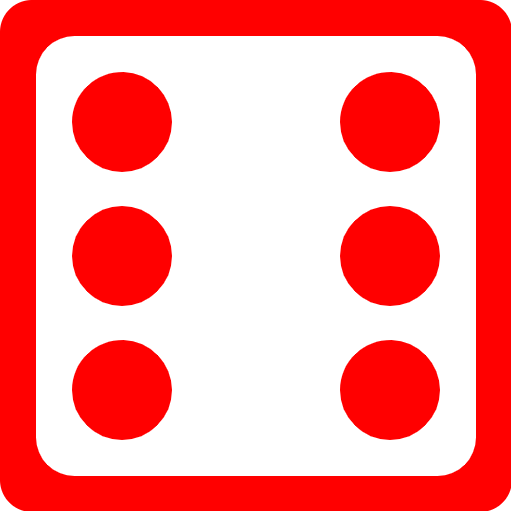
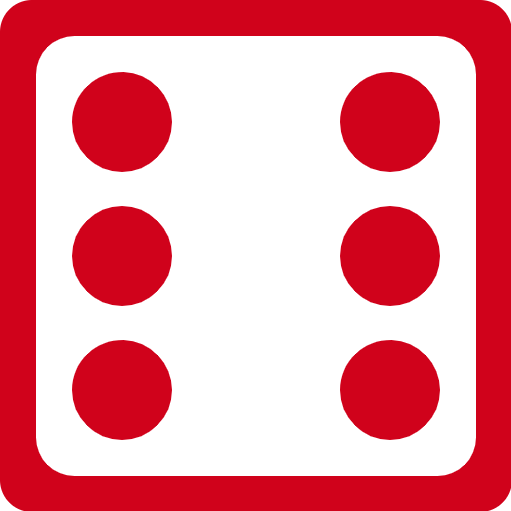
directory

diff --git a/kostky.py b/kostky.py
@@ -1,53 +1,77 @@
-import time
-
 import pygame
+import random
 
 pygame.init()
+
 display_info = pygame.display.Info()
-print(display_info)
 screen_width = display_info.current_w
 screen_height = display_info.current_h
 window = pygame.display.set_mode((screen_width, screen_height), pygame.FULLSCREEN)
-red = pygame.color.Color('#FF0000')
-orange = pygame.color.Color('#FF9000')
-white = pygame.color.Color('#FFFFFF')
 black = pygame.color.Color('#000000')
-kostkaIMG = pygame.image.load('foto/dice6.png')
-kostka6 = pygame.transform.scale(kostkaIMG, (0.08 * screen_width, 0.08 * screen_width))
-kostkaIMG = pygame.image.load('foto/dice6X.png')
-kostka6X = pygame.transform.scale(kostkaIMG, (0.08 * screen_width, 0.08 * screen_width))
 
 
-class dice:
-    def __init__(self, x, y, size, number, color):
-        self.number = number
+class Board:
+    POSITIONS = [
+        (screen_width * 0.5, screen_height * 0.5 - screen_width * 0.1),
+        (screen_width * 0.4, screen_height * 0.5 - screen_width * 0.1),
+        (screen_width * 0.5, screen_height * 0.5),
+        (screen_width * 0.4, screen_height * 0.5),
+        (screen_width * 0.5, screen_height * 0.5 + screen_width * 0.1),
+        (screen_width * 0.4, screen_height * 0.5 + screen_width * 0.1)
+
+    ]
+
+    def create(self):
+        self.dices = [Dice(x, y) for x, y in self.POSITIONS]
+        for dice in self.dices:
+            dice.draw(6)
+
+
+class Dice:
+    dice_imgs = {
+        "locked_imgs": {
+            1: pygame.transform.scale(pygame.image.load('foto/dice1X.png'), (0.08 * screen_width, 0.08 * screen_width)),
+            2: pygame.transform.scale(pygame.image.load('foto/dice2X.png'), (0.08 * screen_width, 0.08 * screen_width)),
+            3: pygame.transform.scale(pygame.image.load('foto/dice3X.png'), (0.08 * screen_width, 0.08 * screen_width)),
+            4: pygame.transform.scale(pygame.image.load('foto/dice4X.png'), (0.08 * screen_width, 0.08 * screen_width)),
+            5: pygame.transform.scale(pygame.image.load('foto/dice5X.png'), (0.08 * screen_width, 0.08 * screen_width)),
+            6: pygame.transform.scale(pygame.image.load('foto/dice6X.png'), (0.08 * screen_width, 0.08 * screen_width))
+        },
+        "unlocked_imgs": {
+            1: pygame.transform.scale(pygame.image.load('foto/dice1.png'), (0.08 * screen_width, 0.08 * screen_width)),
+            2: pygame.transform.scale(pygame.image.load('foto/dice2.png'), (0.08 * screen_width, 0.08 * screen_width)),
+            3: pygame.transform.scale(pygame.image.load('foto/dice3.png'), (0.08 * screen_width, 0.08 * screen_width)),
+            4: pygame.transform.scale(pygame.image.load('foto/dice4.png'), (0.08 * screen_width, 0.08 * screen_width)),
+            5: pygame.transform.scale(pygame.image.load('foto/dice5.png'), (0.08 * screen_width, 0.08 * screen_width)),
+            6: pygame.transform.scale(pygame.image.load('foto/dice6.png'), (0.08 * screen_width, 0.08 * screen_width))
+        }
+    }
+
+    def __init__(self, x, y, locked=False):
         self.x = x
         self.y = y
-        self.size = size
-        self.color = color
+        self.locked = locked
 
-    def drawrec(self):
-        # pygame.draw.rect(window, self.color, (self.x, self.y, self.size, self.size))
-        window.blit(kostka6, (self.x, self.y))
+    def draw(self, number):
+        if self.locked != True:
+            window.blit(self.dice_imgs["unlocked_imgs"][number], (self.x, self.y))
+        else:
+            window.blit(self.dice_imgs["locked_imgs"][number], (self.x, self.y))
         pygame.display.flip()
 
-    def drawrecP(self):
-        window.blit(kostka6X, (self.x, self.y))
-        pygame.display.flip()
+    def rolldice(self):
+        if self.locked != True:
+            self.animation()
+            #
+    def animation(self):
+        for i in range(4):
+            for l in range(6):
+                random_number = random.randint(1, 6)
+                self.draw(random_number)
+            pygame.time.delay(2000)
 
-
-dice1 = dice(screen_width * 0.5, screen_height * 0.5 - screen_width * 0.1, 0.08 * screen_width, 1, orange)
-dice2 = dice(screen_width * 0.4, screen_height * 0.5 - screen_width * 0.1, 0.08 * screen_width, 2, red)
-dice3 = dice(screen_width * 0.5, screen_height * 0.5, 0.08 * screen_width, 3, orange)
-dice4 = dice(screen_width * 0.4, screen_height * 0.5, 0.08 * screen_width, 4, red)
-dice5 = dice(screen_width * 0.5, screen_height * 0.5 + screen_width * 0.1, 0.08 * screen_width, 5, orange)
-dice6 = dice(screen_width * 0.4, screen_height * 0.5 + screen_width * 0.1, 0.08 * screen_width, 6, red)
-dice1.drawrec()
-dice2.drawrecP()
-dice3.drawrec()
-dice4.drawrecP()
-dice5.drawrec()
-dice6.drawrecP()
+board = Board()
+board.create()
 pygame.display.flip()
 
 window.fill(black)
@@ -55,6 +79,14 @@ running = True
 while running:
 
     for event in pygame.event.get():
-
         if event.type == pygame.QUIT:
             running = False
+        elif event.type == pygame.KEYDOWN:
+            if event.key == pygame.K_SPACE:
+                for i in range(6):
+                    board.dices[i].rolldice()
+                # i = 0
+                # while i < 100:
+                #     # Your code here
+                #     Dice.rolldice()
+                #     i += 1
